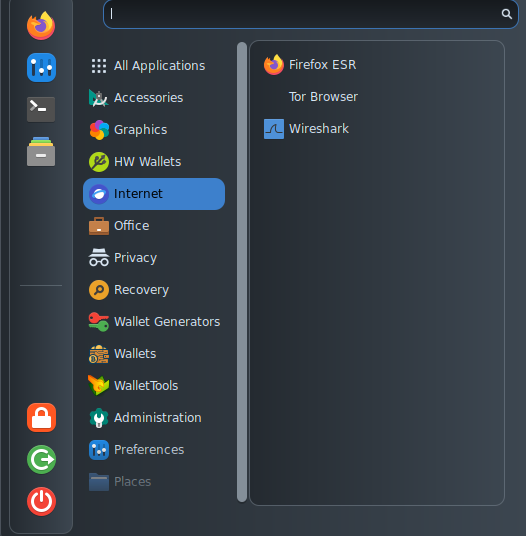
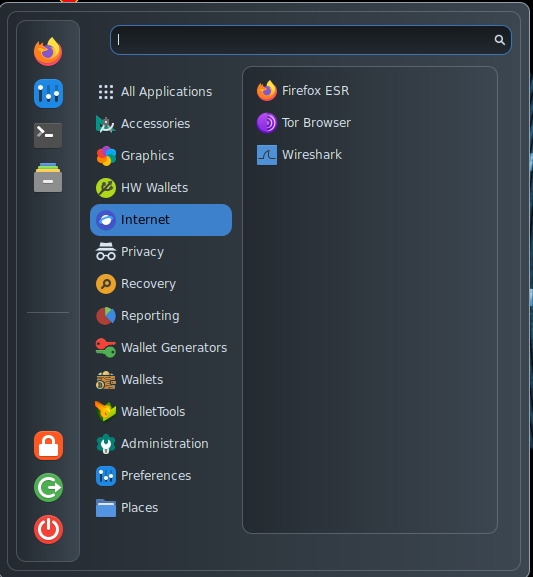
GITBOOK-16: No subject

Changed region(s): [[0.0, 0.0, 1.0, 1.0]]

diff --git a/features/tools-list/walletgenerators.md b/features/tools-list/walletgenerators.md
@@ -1,12 +1,17 @@
 # WalletGenerators
 
-<figure><img src="../../.gitbook/assets/WalletGenerators.png" alt=""><figcaption></figcaption></figure>
+<figure><img src="../../.gitbook/assets/WalletGen.png" alt=""><figcaption></figcaption></figure>
 
 * [BitAddress](https://github.com/pointbiz/bitaddress.org) is a javascript tool that runs locally and creates a Bitcoin paper wallet and that can be found at [bitaddress.org](https://www.bitaddress.org/);
+* [BlindDecode](https://github.com/ASeriousMister/BlindGen) can be used to obtain private keys generated with BlindGen;
+* [BlindGen](https://github.com/ASeriousMister/BlindGen) can be used to allow two users to obtain public addresses without having access to the whole private key;
 * [CashAddress](https://github.com/theantnest/bccaddress) is a javascript tool that runs locally and creates a Bitcoin Cash paper wallet and that can be found at [cashaddress.org](https://cashaddress.org/);
 * [DashAddress](https://github.com/dashpay/paper.dash.org) is a javascript tool that runs locally and creates a Dash paper wallet that can be found on [paper.dash.org](https://paper.dash.org/);
 * [Dice2Seed](https://github.com/ASeriousMister/Dice2Seed) is a tool that obtaines a mnemonic seed starting from the entropy obtained rolling a dice;
 * [DiceTracker](https://github.com/ASeriousMister/DiceTracker.py) is a tool that generates printable paper wallets starting from 256 dice rolls, removing the need to trust software's entropy;
 * [LastWord](https://github.com/ASeriousMister/LastWord) is a tool that finds a last word that respects the BIP39 checksum for mnemonic phrases;
 * [LiteAddress](http://liteaddress.org/) is a javascript tool that runs locally and creates a Bitcoin paper wallet and that can be found at [liteaddress.org](https://github.com/litecoin-project/liteaddress.org);
+* [Mic2Paper](https://github.com/ASeriousMister/Mic2Paper) generates printable paper wallets obtaining entropy from the microphone;
+* [Mic2Seed](https://github.com/ASeriousMister/Mic2Seed) generates BIP39 mnemonic seeds using entropy obtained from the microphone;
+* [MicCheck](https://github.com/AnuBitux/MicCheck) can be used to check if the microphone works properly before generating paper wallets or mnemonic seeds;
 * [MoneroWalletGenerator](https://github.com/moneromooo-monero/monero-wallet-generator/) is an offline Monero wallet generator that can also be found on [moneroaddress.org](https://moneroaddress.org/).

diff --git a/features/tools-list/recovery.md b/features/tools-list/recovery.md
@@ -2,9 +2,11 @@
 
 <figure><img src="../../.gitbook/assets/Recovery.png" alt=""><figcaption></figcaption></figure>
 
-* [BTCKeySearch](https://github.com/ASeriousMister/BTCKeySearch) is a tool , developed by the AnuBitux team, that scans files in a directory and in its subdirectories, looking for Bitcoin private keys, Monero private spend keys and BIP32 root keys (xpriv);
+* [Bitbox Backup Recovery](https://github.com/BitBoxSwiss/bitbox02-backup-recovery) can be used to restore a BIP39 wallet seed phrase from a BitBox02 backup;
+* [BTCKeySearch](https://github.com/ASeriousMister/BTCKeySearch) is a tool, developed by the AnuBitux team, that scans files in a directory and in its subdirectories, looking for Bitcoin private keys, Monero private spend keys and BIP32 root keys (xpriv);
 * [BTCRecovery](https://github.com/3rdIteration/btcrecover) is a powerful tool that provides many solutions to recover access to wallets, even to perform dictionary and bruteforce attacks;
 * [BulkExtractor](https://github.com/simsong/bulk\_extractor) is a tool that rapidly scans directory and volumes for any kind of input like regular expressions;
+* [Copay Recovery](https://bitpay.github.io/copay-recovery/), a tool to recover access to [BitPay](https://bitpay.com/) [Copay](https://support.bitpay.com/hc/en-us/articles/115003028366-How-is-the-BitPay-wallet-app-related-to-Copay-How-is-it-different) payments;&#x20;
 * [Photorec](https://github.com/cgsecurity/testdisk) tries to recover deleted files or part of them and could be useful, for instance, for accidentally deleted wallets;
 * [SearchMonkey](https://packages.debian.org/bookworm/searchmonkey) is a powerful graphical tool to scan files in search of keywords, filenames and strings;
 * [SeedRecover](https://github.com/3rdIteration/btcrecover/blob/master/seedrecover.py) is part of the BTCrecover tool. It tries to fix a mnemonic seed phrase with mistakes and/or missing words;

diff --git a/features/tools-list/wallets.md b/features/tools-list/wallets.md
@@ -1,6 +1,6 @@
 # Wallets
 
-<figure><img src="../../.gitbook/assets/Wallets.png" alt=""><figcaption></figcaption></figure>
+<figure><img src="../../.gitbook/assets/Wallets1.png" alt=""><figcaption></figcaption></figure>
 
 * [Atomic](https://atomicwallet.io/) is a widely used multi-coin wallet;
 * [GreenWallet](https://blockstream.com/green/) is a desktop wallet, [developed](https://github.com/Blockstream/green\_qt/releases) by [Blockstream](https://blockstream.com/) that supports Bitcoin and even L-BTC on the [Liquid](https://blockstream.com/liquid/) sidechain.
@@ -11,7 +11,13 @@
 * [Electrum-Firo](https://github.com/firoorg/electrum-firo) is a version of the well known Electrum wallet that works with [Firo](https://firo.org/), an emergin privacy coin;
 * [Exodus](https://www.exodus.com/) is a multi-currency and multi-service desktop wallet;
 * [Feather](https://featherwallet.org/) is a very complete and powerful Monero wallet with a comfortable user interface that is similar to Electrum's one;
+* [Guarda](https://guarda.com/desktop/) is a simple to use and powerful multi-coin wallet;
+
+<figure><img src="../../.gitbook/assets/Wallets2.png" alt=""><figcaption></figcaption></figure>
+
+* [MoneroWallet(cli)](https://www.getmonero.org/downloads/#cli) is the command line version of the official Monero wallet;
 * [MyCrypto](https://mycrypto.com/) is a wallet that allows to manage Ethereum accounts;
 * [MyMonero](https://mymonero.com/) is a lightweight and efficient Monero wallet;
 * [Sparrow](https://sparrowwallet.com/) is a Bitcoin wallet caring for user's privacy;
+* [TonKeeper](https://tonkeeper.com/pro) is the official client for the Ton Network (it is already available as a browser extension);
 * [ZecWallet](https://www.zecwallet.co/) is a fully featured shielded wallet for Zcash.

diff --git a/features/tools-list/wallettools.md b/features/tools-list/wallettools.md
@@ -5,7 +5,7 @@
 * [BIP39](https://github.com/iancoleman/bip39) is the well known tool developed by Ian Coleman that handles derivation paths based on BIP39 wordlists. It is also available on his [website](https://iancoleman.io/bip39/);
 * [Check XMR tx](https://github.com/luigi1111/xmr.llcoins.net/blob/master/site/checktx.html) is a tool that can be used to verify XMR transactions, providing the necessary keys;
 * [Coinb.in](https://github.com/OutCast3k/coinbin/) is a tool that allows users to sign, verify and broadcast transactions that could also have been written from scratch. The tool is also available on the web at the [coinb.in](https://coinb.in/) page.
-* [SeedCheck](https://github.com/ASeriousMister/SeedCheck.py) is a tool developed by the AnuBitux team that tries to find out the correct derivation path or the right software a seed was used with;
+* [SeedCheck](https://github.com/ASeriousMister/SeedCheck.py) is a tool developed by the AnuBitux team that tries to find out the correct derivation path or the right software a mnemonic seed was used with;
 * [SeedTool](https://bitcoiner.guide/seed/) is a powerful graphical Bitcoin-oriented tool to generate and handle BIP39 mnemonic seeds;
 * [Test XMR address](https://github.com/luigi1111/xmr.llcoins.net/blob/master/site/addresstests.html) is a tool related to Cryptonote Addresses, used by the Monero protocol;
 * [Xpub-converter](https://github.com/jlopp/xpub-converter) is a tool, by [Jameson Lopp](https://www.lopp.net/), that allows to convert among many different formats of xpub keys.&#x20;

diff --git a/getting-started/how-to-build-anubitux.md b/getting-started/how-to-build-anubitux.md
@@ -1,0 +1,34 @@
+# How to build AnuBitux
+
+AnuBitux is a distro designed to handle very sensible information so it tries to be as more trustless as possible. SI, if a user doesn't want to download the builded iso or does not trust the building logs published on the [Download page](https://anubitux.org/download-anubitux/), it is also possible to self build it following these simple steps (also shown [here](https://github.com/AnuBitux-project/build)):
+
+* Use a Debian-based working environment for the building process;
+* Install dependencies
+
+```
+sudo apt install live-build squashfs-tools syslinux-common syslinux-utils xorriso isolinux
+```
+
+* Create a folder
+
+```
+mkdir distro
+```
+
+* Move your terminal into the folder
+
+```
+cd distro
+```
+
+* Configure the parameters
+* Obtain root privileges
+* Launch the building process
+* Copy the anubitux\_script.sh file to the chroot&#x20;
+* Execute the script (if needed, edit the versions of the tools at the beginning of the script file)
+* Configure the last files
+* Type exit to start the building process
+* Wait until it ends
+
+Use a Debian working environment for the building process.
+

diff --git a/SUMMARY.md b/SUMMARY.md
@@ -13,6 +13,7 @@
   * [Booting from USB](getting-started/how-to-use-anubitux/booting-from-usb.md)
 * [How to create an AnuBitux VM](getting-started/how-to-create-an-anubitux-vm.md)
 * [How to update an AnuBitux VM](getting-started/how-to-update-an-anubitux-vm.md)
+* [How to build AnuBitux](getting-started/how-to-build-anubitux.md)
 
 ## Features
 
@@ -21,9 +22,9 @@
   * [Graphics](features/tools-list/graphics.md)
   * [HW Wallets](features/tools-list/hw-wallets.md)
   * [Internet](features/tools-list/internet.md)
-  * [Office](features/tools-list/office.md)
   * [Privacy](features/tools-list/privacy.md)
   * [Recovery](features/tools-list/recovery.md)
+  * [Reporting](features/tools-list/reporting.md)
   * [WalletGenerators](features/tools-list/walletgenerators.md)
   * [Wallets](features/tools-list/wallets.md)
   * [WalletTools](features/tools-list/wallettools.md)

diff --git a/features/tools-list/accessories.md b/features/tools-list/accessories.md
@@ -1,9 +1,11 @@
 # Accessories
 
-<figure><img src="../../.gitbook/assets/accessories.png" alt=""><figcaption></figcaption></figure>
+<figure><img src="../../.gitbook/assets/Accessories.png" alt=""><figcaption></figcaption></figure>
 
-Beside the native Debian tools, AnuBitux provides:
+Besides the native Debian tools, AnuBitux provides:
 
 * [GtkHash](https://gtkhash.org/), a graphical tool to calculate hash checksum values;
 * [Guymager](https://guymager.sourceforge.io/), a tool to clone drives, useful for backup purposes;
-* [Vim](https://www.vim.org/), an enhanced version of the vi text editor.
+* [Vim](https://www.vim.org/), an enhanced version of the vi text editor;
+* Sound recorder can be used to check if microphone works properly;
+* Virtual keyboard can be used with untrusted or unsupported hardware.

diff --git a/features/tools-list/hw-wallets.md b/features/tools-list/hw-wallets.md
@@ -2,6 +2,7 @@
 
 <figure><img src="../../.gitbook/assets/HWWallets.png" alt=""><figcaption></figcaption></figure>
 
+* [BC Vault](https://bc-vault.com/), the officiale client for BC Vault hardware wallets;
 * [BitBoxApp](https://github.com/digitalbitbox/bitbox-wallet-app), the official client for [BitBox](https://shiftcrypto.ch/) hardware wallets;
 * [KeepKey](https://www.keepkey.com/), the official client for KeepKey hardware wallets;
 * [Ledger Live](https://www.ledger.com/ledger-live), the official client for [Ledger](https://www.ledger.com/) Hardware wallets;

diff --git a/features/tools-list/reporting.md b/features/tools-list/reporting.md
@@ -1,0 +1,5 @@
+# Reporting
+
+<figure><img src="../../.gitbook/assets/Reporting.png" alt=""><figcaption></figcaption></figure>
+
+This tools can be useful to write reports about some kind of operations performed with AnuBitux.
